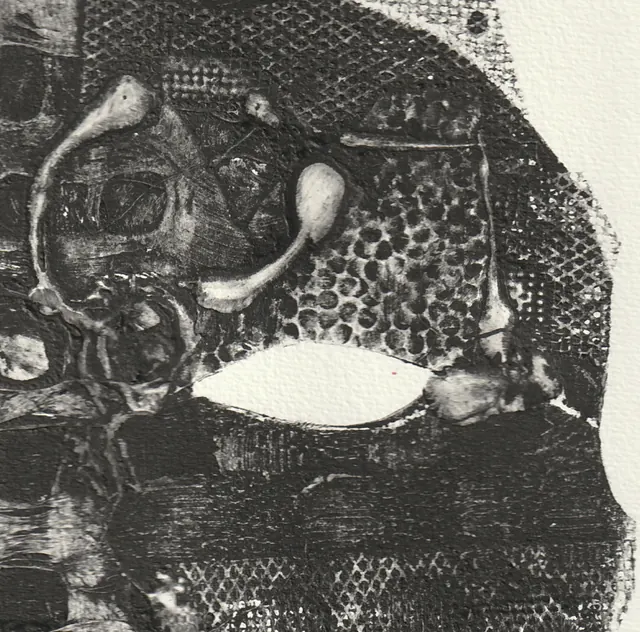
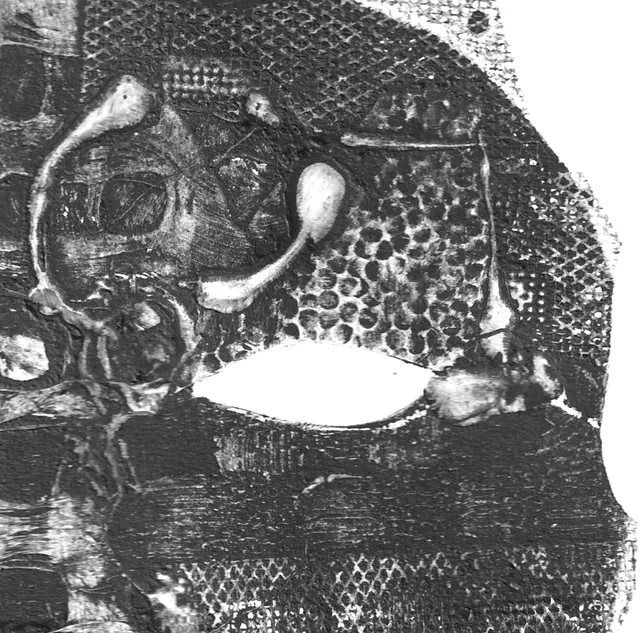
Sharpened scans for 09 and 13; region images sized for retina screens
The artist's sharpened scans of 09 面 and 13 洇 replace the earlier ones,
cut to the same regions. Region images now export up to 3000px (covers
fill a retina screen) and every large image at WebP quality 90.

Claude-Session: https://claude.ai/code/session_017syLoBPernmDiKrEhQeB1T

diff --git a/scripts/prepare_images.py b/scripts/prepare_images.py
@@ -39,7 +39,7 @@ OUT = ROOT / "public" / "works"
 META = ROOT / "src" / "works-meta.json"
 
 LARGE = 2600
-DETAIL = 2400
+DETAIL = 3000  # covers fill a retina screen: ~2880px across
 THUMB = 640
 PAPER = np.array([246, 245, 241], dtype=np.float32)
 ROTATE_180 = {"01"}  # PDF scan of 01 is upside down
@@ -132,7 +132,7 @@ def load_pdf(key):
 def save_pair(key, out):
     large = out.copy()
     large.thumbnail((LARGE, LARGE), Image.LANCZOS)
-    large.save(OUT / f"{key}.webp", quality=84, method=6)
+    large.save(OUT / f"{key}.webp", quality=90, method=6)
     thumb = out.copy()
     thumb.thumbnail((THUMB, THUMB), Image.LANCZOS)
     thumb.save(OUT / f"{key}-thumb.webp", quality=78, method=6)
@@ -167,7 +167,7 @@ def export(key, img):
         thumb.thumbnail((THUMB, THUMB), Image.LANCZOS)
         thumb.save(OUT / f"{key}-detail-thumb.webp", quality=78, method=6)
         detail.thumbnail((DETAIL, DETAIL), Image.LANCZOS)
-        detail.save(OUT / f"{key}-detail.webp", quality=84, method=6)
+        detail.save(OUT / f"{key}-detail.webp", quality=90, method=6)
         info["detail"] = {
             "x": round(fx0, 3),
             "y": round(fy0, 3),
@@ -186,7 +186,7 @@ def export_region(key, img, info=None):
     thumb.save(OUT / f"{key}-detail-thumb.webp", quality=78, method=6)
     detail = img.copy()
     detail.thumbnail((DETAIL, DETAIL), Image.LANCZOS)
-    detail.save(OUT / f"{key}-detail.webp", quality=84, method=6)
+    detail.save(OUT / f"{key}-detail.webp", quality=90, method=6)
     info = dict(info or {"w": detail.width, "h": detail.height})
     info["detail"] = {"x": 0, "y": 0, "cw": 1, "ch": 1, "w": detail.width, "h": detail.height}
     return info
